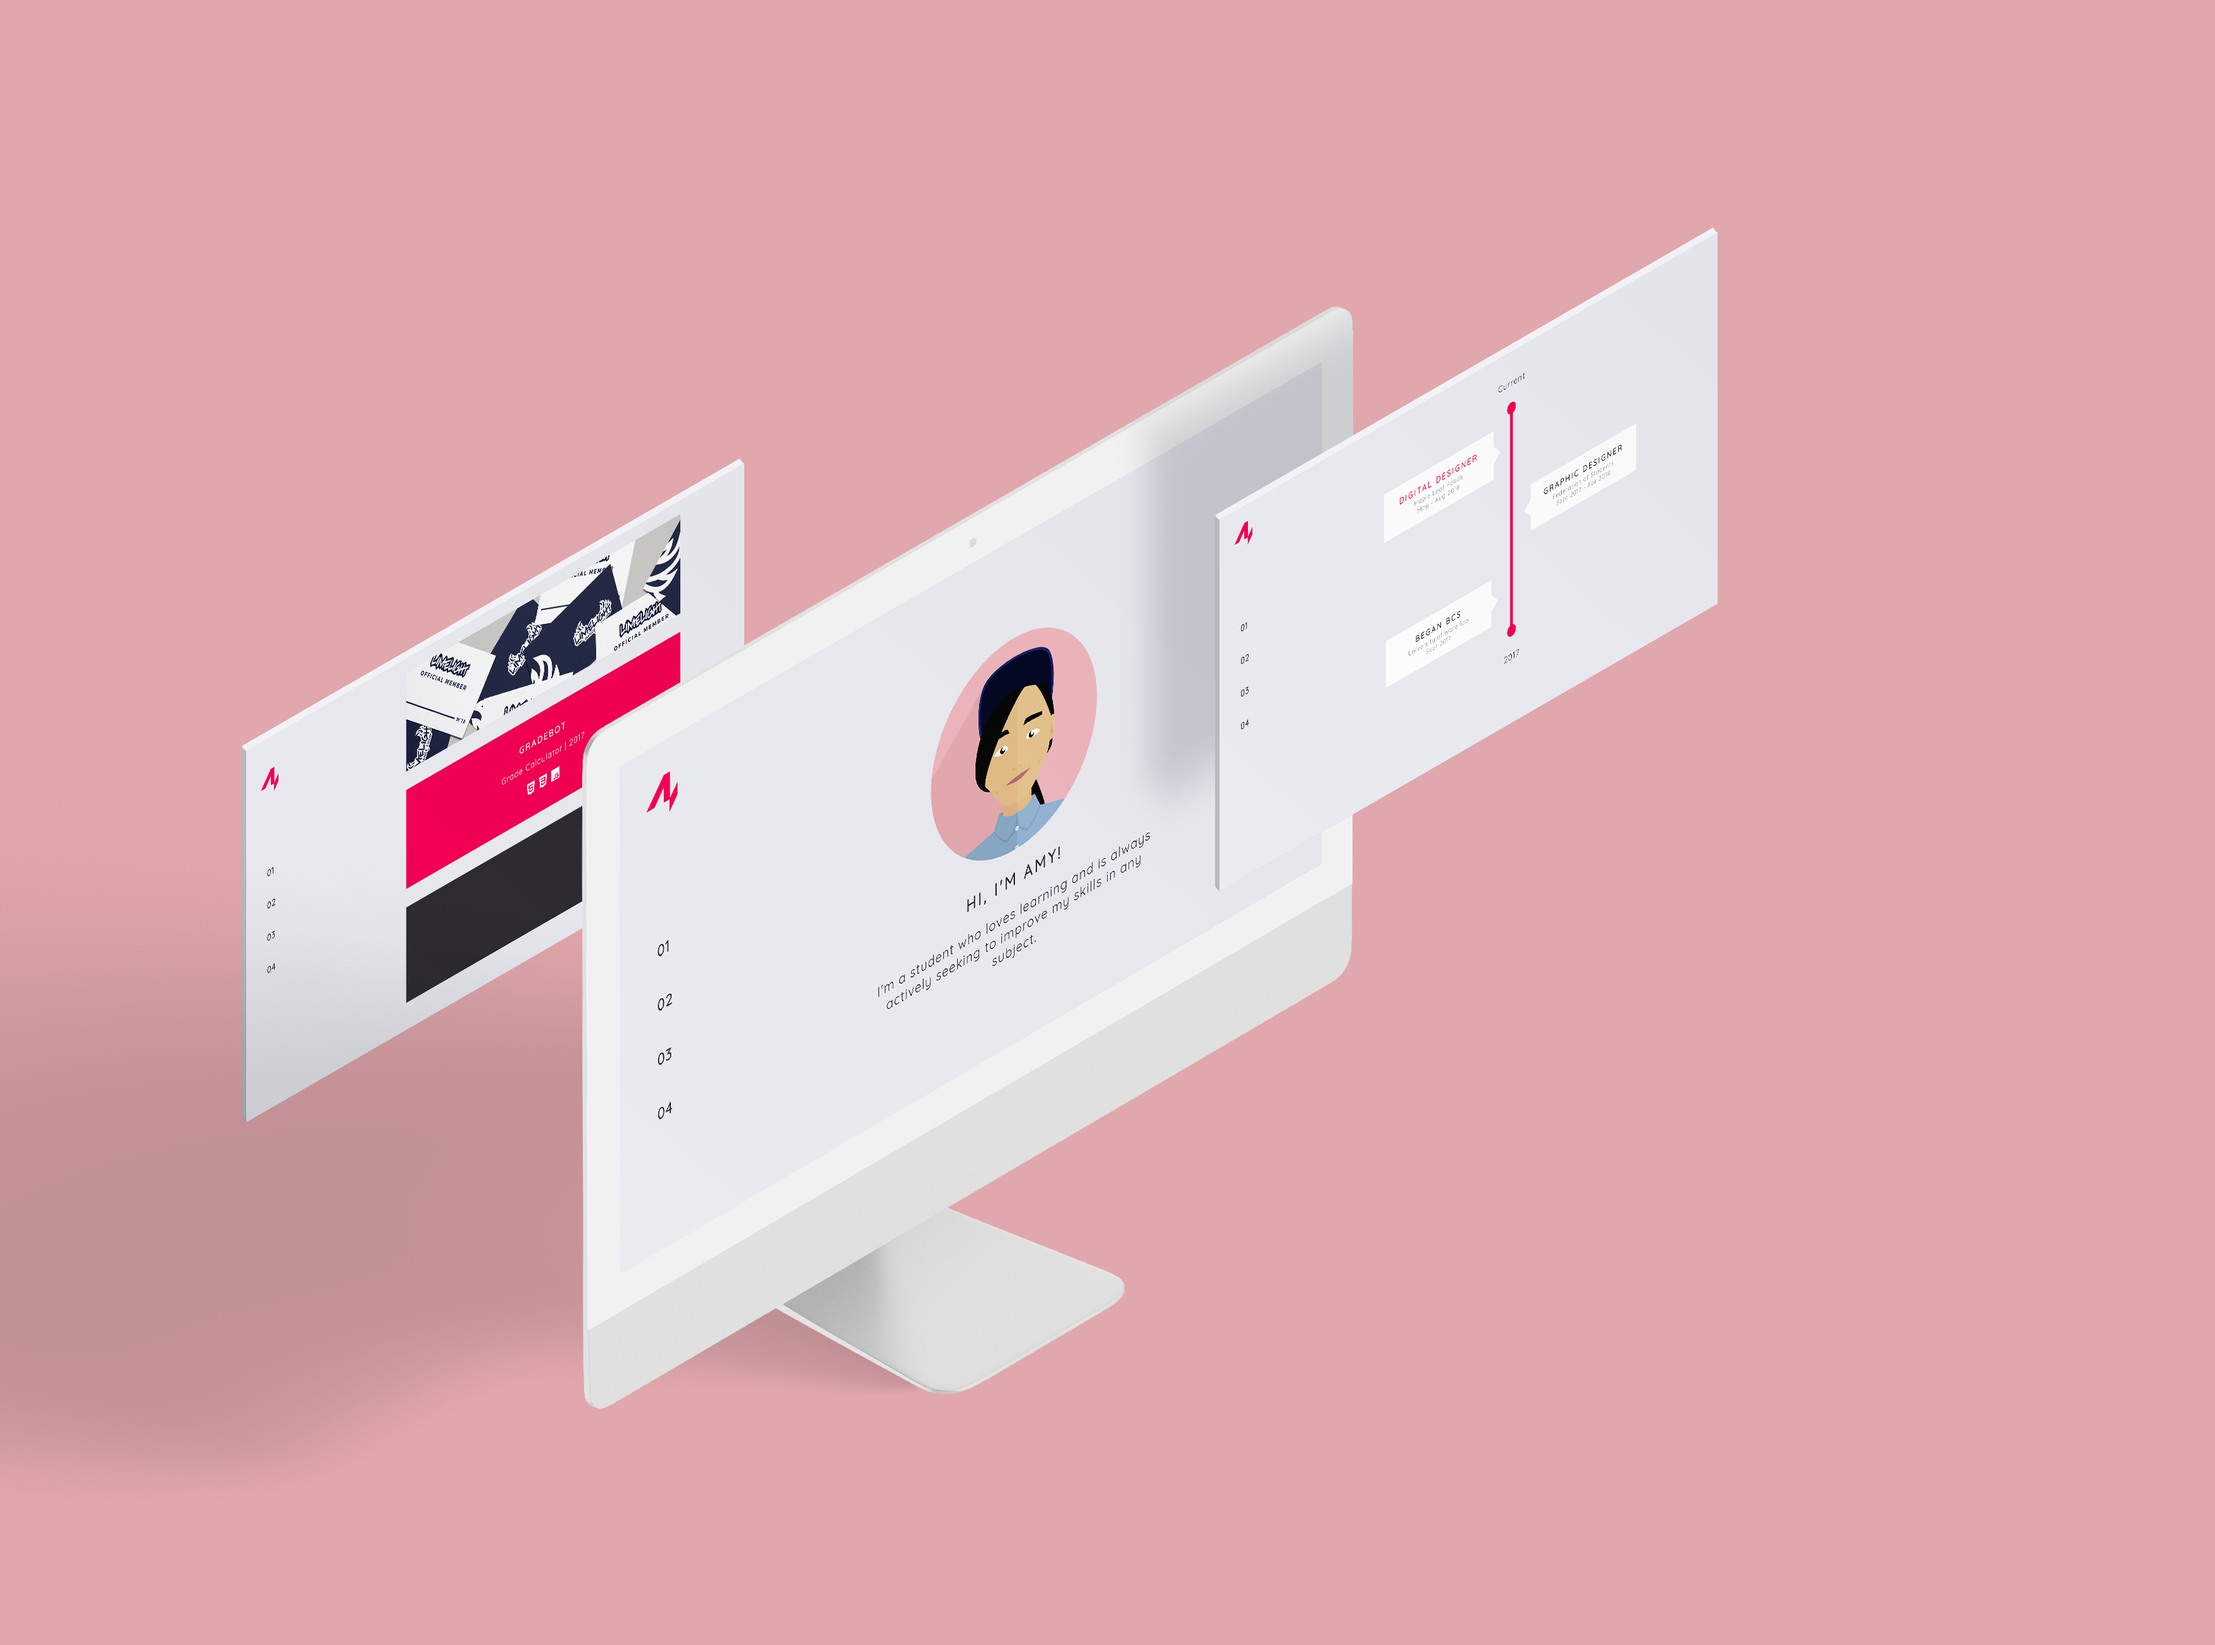
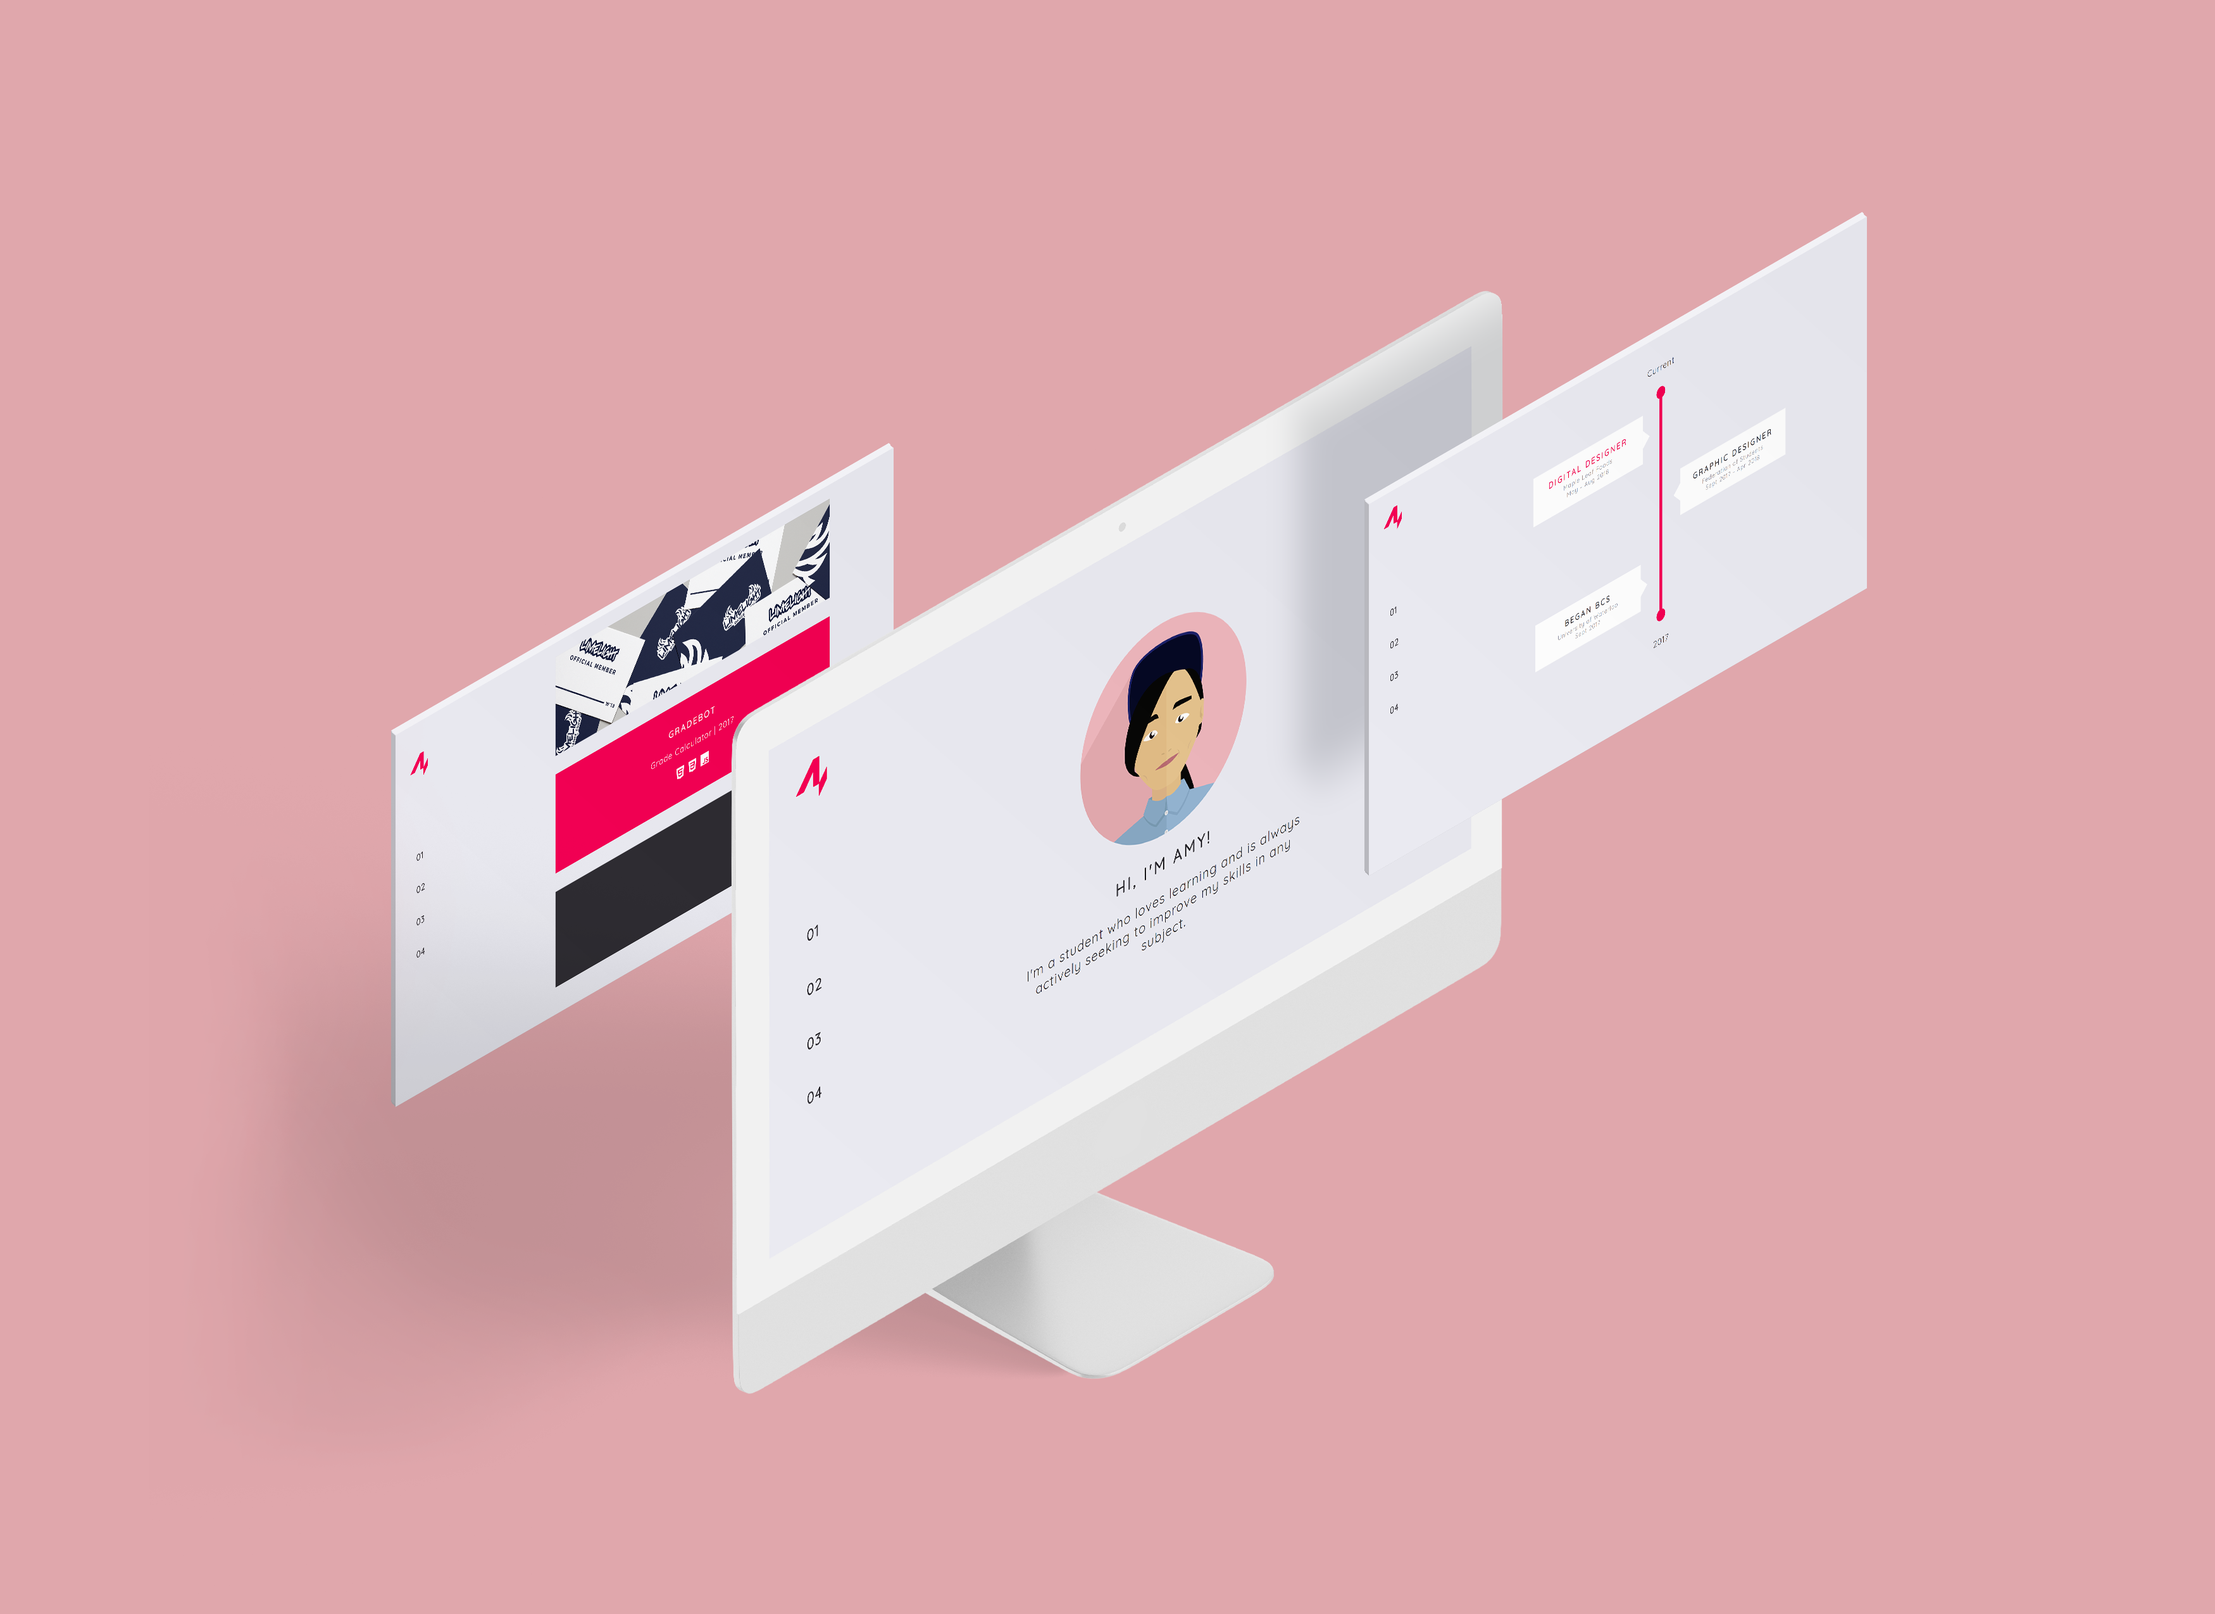
Web responsiveness

diff --git a/src/css/index.css b/src/css/index.css
@@ -114,6 +114,11 @@ a:visited {
   transform: scale(1.1);
 }
 
+@media (max-width: 900px) {
+  .sidenav__item {
+    transform: scale(0);
+  }
+}
 .intro {
   max-width: 400px;
   margin: 100px auto;
@@ -137,6 +142,7 @@ a:visited {
   background-repeat: no-repeat;
   background-size: 100% auto;
   background-position: center;
+  transition: width 1s ease-in-out;
 }
 .project-card .over {
   opacity: 0;
@@ -174,9 +180,28 @@ a:visited {
   padding: 4px;
 }
 
+@media (max-width: 900px) {
+  .project-card {
+    width: 75%;
+  }
+  .project-card:hover .under {
+    top: -50%;
+    height: 200%;
+  }
+}
+@media (max-width: 480px) {
+  .project-card {
+    background-size: auto 100%;
+  }
+  .project-card:hover .under {
+    top: -20%;
+    height: 120%;
+  }
+}
 /* Colours */
 .timeline-card {
   width: 100%;
+  transition: margin 1s;
 }
 .timeline-card__circle--top, .timeline-card__circle--bot {
   background-color: #f40056;
@@ -247,6 +272,23 @@ a:visited {
 .timeline-card__content--right::after {
   border-color: transparent white transparent transparent;
   right: 240px;
+}
+
+@media (max-width: 900px) {
+  .timeline-card {
+    margin-left: -180px;
+  }
+  .timeline-card__content--left, .timeline-card__content--right {
+    margin-left: -80px;
+  }
+  .timeline-card__content--left {
+    left: 50%;
+  }
+  .timeline-card__content--left::after {
+    border-color: transparent white transparent transparent;
+    left: auto;
+    right: 240px;
+  }
 }
 
 /*# sourceMappingURL=index.css.map */

diff --git a/src/scss/timelinecard.scss b/src/scss/timelinecard.scss
@@ -4,6 +4,7 @@ $card-height: 80px;
 
 .timeline-card{
     width: 100%;
+    transition: margin 1s;
     &__circle--top, &__circle--bot{
         background-color: $primary-magenta;
         width: 20px;
@@ -45,6 +46,7 @@ $card-height: 80px;
         justify-content: center;
         align-content: center;
         cursor: pointer;
+
         &::after{
             content: "";
             position: absolute;
@@ -72,6 +74,24 @@ $card-height: 80px;
         &::after{
             border-color: transparent white transparent transparent;
             right: $card-width;
+        }
+    }
+}
+
+@include tablet(){
+    .timeline-card{
+        margin-left: -180px;
+    &__content--left, &__content--right{
+        margin-left: -80px;
+    }
+
+    &__content--left{
+        left: 50%;
+        &::after{
+            border-color: transparent white transparent transparent;
+            left: auto;
+            right: $card-width;
+            }
         }
     }
 }

diff --git a/src/scss/projectcard.scss b/src/scss/projectcard.scss
@@ -1,4 +1,5 @@
 @import 'colors';
+@import 'mixins.scss';
 
 .project-card{
     padding: 64px 32px;
@@ -12,6 +13,7 @@
     background-repeat: no-repeat;
     background-size: 100% auto;
     background-position: center;
+    transition: width 1s ease-in-out;
 
     & .over{
         opacity: 0;
@@ -48,5 +50,25 @@
         width: 20px;
         height: 20px;
         padding: 4px;
+    }
+}
+
+@include tablet(){
+    .project-card{ 
+        width: 75%;
+        &:hover .under{
+            top: -50%;
+            height: 200%;
+        }
+    }
+}
+
+@include phone(){
+    .project-card{ 
+        background-size: auto 100%;
+        &:hover .under{
+            top: -20%;
+            height: 120%;
+        }
     }
 }

diff --git a/src/css/projectcard.css b/src/css/projectcard.css
@@ -11,6 +11,7 @@
   background-repeat: no-repeat;
   background-size: 100% auto;
   background-position: center;
+  transition: width 1s ease-in-out;
 }
 .project-card .over {
   opacity: 0;
@@ -46,6 +47,25 @@
   width: 20px;
   height: 20px;
   padding: 4px;
+}
+
+@media (max-width: 900px) {
+  .project-card {
+    width: 75%;
+  }
+  .project-card:hover .under {
+    top: -50%;
+    height: 200%;
+  }
+}
+@media (max-width: 480px) {
+  .project-card {
+    background-size: auto 100%;
+  }
+  .project-card:hover .under {
+    top: -20%;
+    height: 120%;
+  }
 }
 
 /*# sourceMappingURL=projectcard.css.map */

diff --git a/src/scss/mixins.scss b/src/scss/mixins.scss
@@ -1,0 +1,28 @@
+$phone-width: 480px;
+$tablet-width: 900px;
+$desktop-width: 1024px;
+$large-desktop: 1800px;
+  
+  @mixin phone {
+    @media (max-width: #{$phone-width}) {
+      @content;
+    }
+  }
+  
+  @mixin tablet {
+    @media (max-width: #{$tablet-width}) {
+      @content;
+    }
+  }
+  
+  @mixin desktop {
+    @media (max-width: #{$desktop-width}) {
+      @content;
+    }
+  }
+  
+  @mixin large-desktop {
+    @media (max-width: #{$large-desktop}) {
+      @content;
+    }
+  }

diff --git a/src/scss/sidenav.scss b/src/scss/sidenav.scss
@@ -1,4 +1,5 @@
 @import 'colors.scss';
+@import 'mixins.scss';
 
 .sidenav {
     position: relative;
@@ -27,5 +28,11 @@
             color: $primary-magenta;
             transform: scale(1.1);
         }
+    }
+}
+
+@include tablet(){
+    .sidenav__item{
+        transform: scale(0);
     }
 }

diff --git a/src/css/sidenav.css b/src/css/sidenav.css
@@ -28,4 +28,10 @@
   transform: scale(1.1);
 }
 
+@media (max-width: 900px) {
+  .sidenav__item {
+    transform: scale(0);
+  }
+}
+
 /*# sourceMappingURL=sidenav.css.map */

diff --git a/src/css/mixins.css b/src/css/mixins.css
@@ -1,0 +1,3 @@
+
+
+/*# sourceMappingURL=mixins.css.map */
